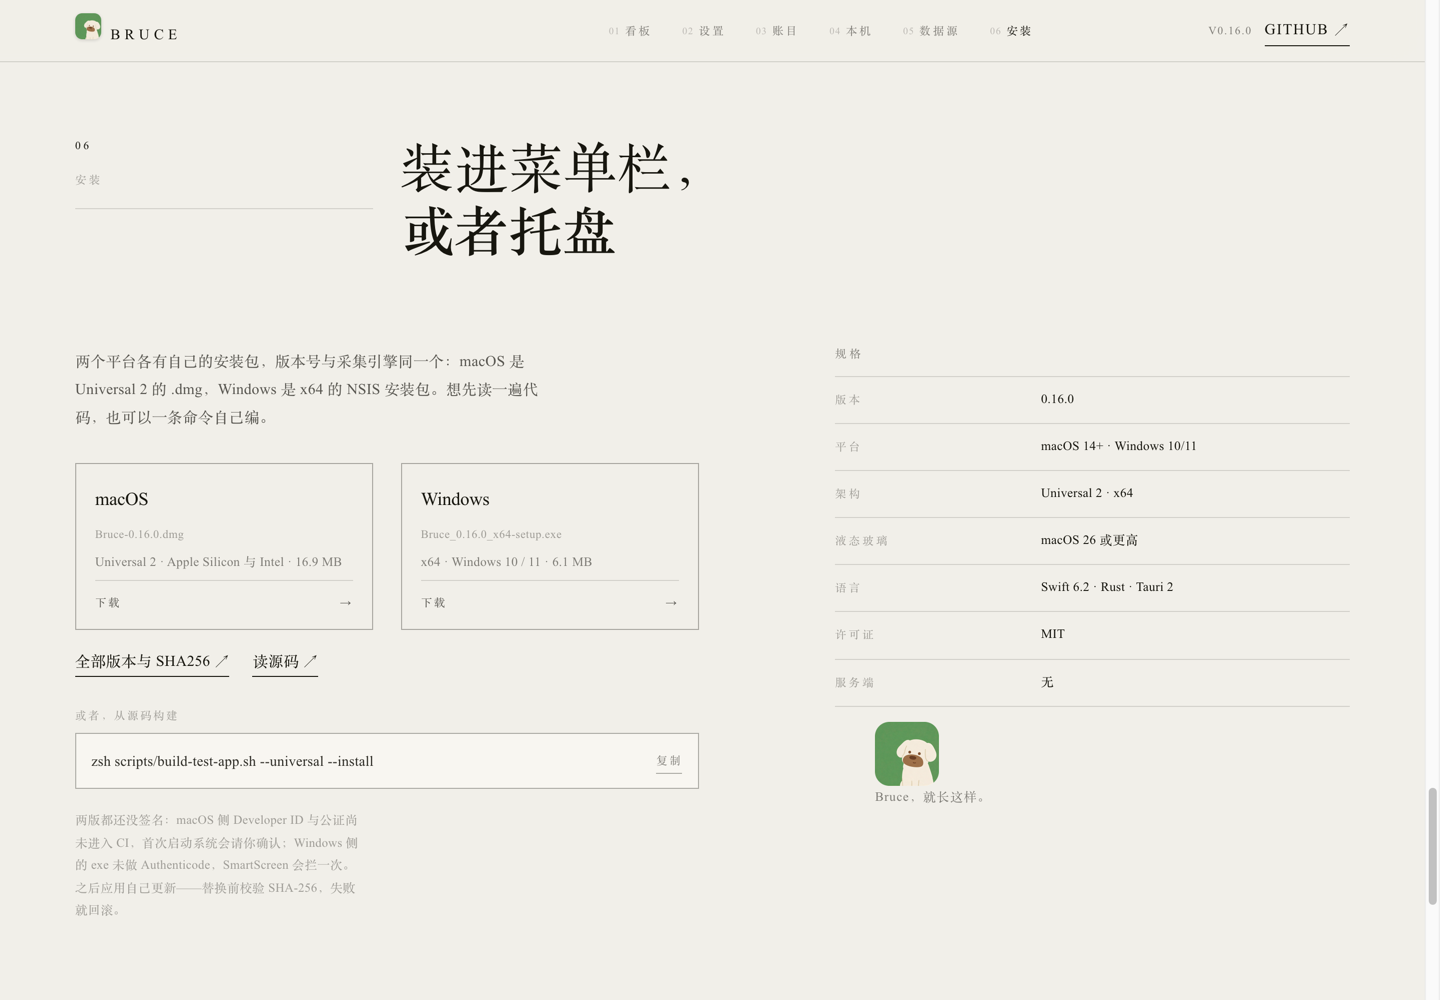
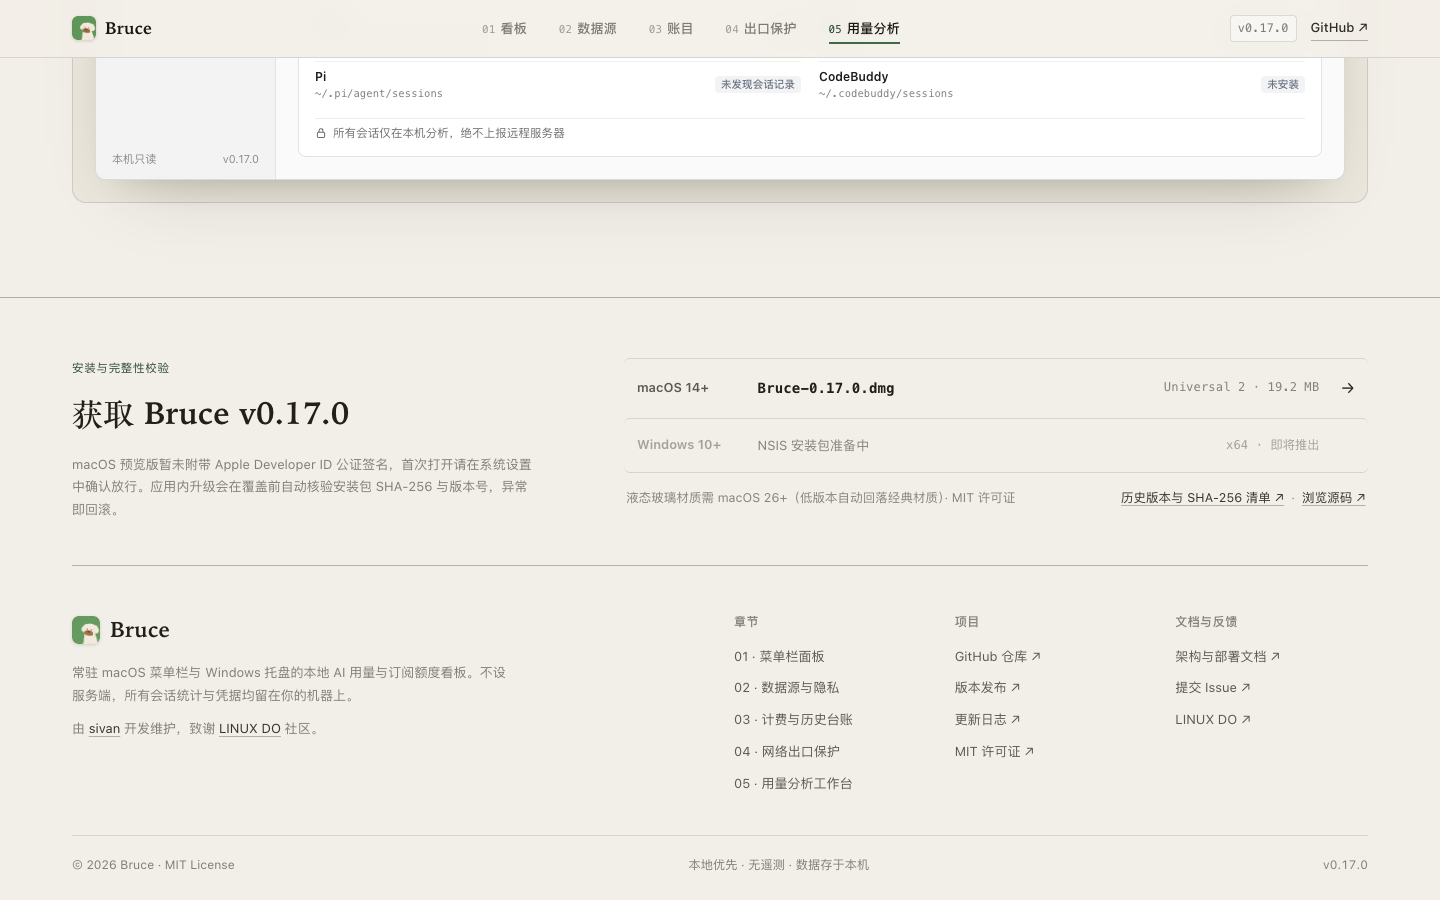
docs(website): 同步官方网站设计基线、实测截图与 CHANGELOG 记账 (C244)

diff --git a/docs/devel/design/13-官方网站.md b/docs/devel/design/13-官方网站.md
@@ -1,10 +1,10 @@
 # 官方网站设计方案
 
 <!-- @topic: OfficialWebsite -->
-> **created**: 2026-11-05 ｜ **last-change**: 2026-11-06 ｜ **status**: baseline
-> **文档ID**: DESIGN-WEBSITE ｜ **状态**: 现行基线（2026-11-06 批准首屏移动端适配基线变更）
-> **最后更新**: 2026-11-06 ｜ **所属总体**: [00-系统总体设计.md](00-系统总体设计.md) ｜ **对应 Topic**: `OfficialWebsite`
-> 📌 **变更总账**: 任务总账 [index.json](../task/index.json)（M15，T27；M17，T33）
+> **created**: 2026-11-05 ｜ **last-change**: 2026-11-18 ｜ **status**: baseline
+> **文档ID**: DESIGN-WEBSITE ｜ **状态**: 现行基线（2026-11-18 校准五章信息架构、首屏叠牌前置预览与去 AI 腔版式规范）
+> **最后更新**: 2026-11-18 ｜ **所属总体**: [00-系统总体设计.md](00-系统总体设计.md) ｜ **对应 Topic**: `OfficialWebsite`
+> 📌 **变更总账**: 任务总账 [index.json](../task/index.json)（M15，T27；M17，T33）｜ 变更总账 [index.json](../change/index.json)（C244）
 
 ---
 
@@ -35,10 +35,11 @@
 
 ### 3.1 定位与边界
 
-1. **单页交付**：一张长卷，六章（看板 / 设置 / 账目 / 本机 / 数据源 / 安装），不做多页路由、不做登录、不做埋点。
+1. **单页交付**：一张长卷，五章（01 看板 / 02 数据源 / 03 账目 / 04 出口保护 / 05 用量分析）加页脚下载与验证台账，不做多页路由、不做登录、不做埋点。
 2. **零依赖静态**：只用 `index.html` + CSS + 原生 JS，无构建框架、无 npm 依赖树；构建步骤只做占位符注入与产物收拢。
-3. **高保真是硬要求**：面板与设置窗口不是截图，是按 App 布局常量（`website/spec/panel-spec.md`、`system-spec.md` 逐条标注源码行号）在 HTML/CSS 里重建的可交互 DOM。
+3. **高保真是硬要求**：菜单栏 22pt 状态项、弹出面板、出口保护设置与用量分析工作台均不是截图，而是按 App 布局常量（`website/spec/panel-spec.md`、`system-spec.md` 逐条标注源码行号）在 HTML/CSS 里重建的 DOM。
 4. **不碰产品逻辑**：官网不读取真实用量、不携带凭据，所有数字为样例数据并在页面注明。
+5. **平实克制的工程表达**：拒绝对称排比金句、机翻隐喻、页面自指说明（如在页脚报出字体栈与色值）及营销浮夸辞藻；用具体的数据源路径、权限数字、计费规则与窗口口径说话。
 
 ### 3.2 为什么放在主仓而不是独立仓库
 
@@ -59,9 +60,9 @@
 ```
 website/                     # 站点源码（构建输入，不直接部署）
 ├── index.html
-├── css/                     # base / site / panel / settings 四层
-├── js/                      # data.js 样例数据、panel.js 看板、settings.js 设置窗口、site.js 页面行为
-├── assets/                  # 字体子集、App 图标、厂商图形副本（构建时随站点一起复制）
+├── css/                     # base / site / panel / settings 四层样式
+├── js/                      # data.js 样例数据、panel.js 看板与菜单栏状态项、egress.js 出口保护、analysis.js 分析工作台、settings.js 设置基线、site.js 页面行为、preview-fallback.js 预览兜底
+├── assets/                  # 字体子集、App 图标、Agent 与厂商图形副本（构建时随站点一起复制）
 ├── spec/                    # 面板与系统规格摘录（源码行号证据，不参与构建）
 └── tools/                   # shot.mjs 截图、responsive-check.mjs 多宽度断言（均不参与构建）
 local/dist/site/             # 构建产物（gitignored，部署来源）
@@ -91,29 +92,27 @@ local/dist/site/             # 构建产物（gitignored，部署来源）
 
 ### 3.6 信息架构与版式
 
-1. **首屏**：左侧巨字标题（每一枚 token / 每一个模型 / 都记在账上）＋双平台下载，右侧三种主题的面板牌堆；不带主题标尺与演示注脚。
-2. **一章一屏**：每章有编号、名称、细线与标题，正文按 12 列网格排布。
-3. **字体系统**：中文宋体（`Songti SC` / `STSong` / `Noto Serif CJK SC`），西文 Times New Roman；强调用字重而非斜体；中文一律不做大写转换。
-4. **色彩**：纸色 `#F1EFE9`、墨色 `#17160F`、墨绿 `#4D7A52`，正文灰阶取不透明度派生；Nothing 主题内部使用琥珀 `#c9a24a` 与自己的灰阶。
-5. **长卷节奏**：章节之间用留白与细线分隔，不用色块切分，保持「时装画册」气质；明确避开赛博朋克式的霓虹、扫描线与高饱和发光。
+1. **首屏**：左侧眉标含 22pt 原生菜单栏状态项微缩样张（单环配额轨 + 最多三项等宽实时指标）、巨字主标题、平实导语与双平台下载，右侧三种主题的面板牌堆与轻量主题切换引线。
+2. **章节标头与网格**：采用纸面台账顶线分栏（左侧章节号与名称、右侧工程规格短注），取代装饰性圆点眉标；正文按 12 列网格排布。
+3. **字体分工**：大标题、章节题与导语采用衬线栈（`Iowan Old Style` / `Palatino` / `Times New Roman` + `Songti SC` / `STSong` / `Noto Serif CJK SC`），保留纸质印品的呼吸感；密集技术条目、暗底说明、规格表与产品界面内部统一使用系统无衬线与等宽数字，保证小字号与深色背景下的清晰度。大小写混排专有名词（`macOS`、`Windows`、`Nothing`、`GitHub`）严禁施加宽字距，宽字距仅用于全大写缩写与章节编号。
+4. **色彩**：纸色 `#F1EFE9`、抬升纸面 `#F8F6F1`、墨色 `#17160F`、墨绿 `#3F6A45`，正文灰阶取不透明度派生；04 章出口保护采用深墨底盘形成长卷节奏对照；Nothing 主题内部使用琥珀 `#C9A24A` 与专属点阵色阶。
+5. **长卷节奏**：章节之间用留白、纸面冷暖层级与 1px 细线分隔，明确避开赛博朋克霓虹、渐变发光卡片墙与仪表盘装饰徽章堆砌。
 
 ### 3.7 三个主题与牌堆
 
-首屏牌堆由三块静态面板叠成：Nothing、液态玻璃、经典，自左向右层叠，横向步进 168、纵向步进 42，自然尺寸 776×818。牌堆按容器宽度用定宽占位容器 + `transform: scale()` 缩放，不使用非标准 `zoom`：`>1100px` 放在首屏标题右侧；`721–1100px` 整堆等比缩放、排在文案下方且三张全部保留；`≤720px` 改为三张纵向缩略叠放（当前卡展开，其余两张各留 48–56px 顶条，点顶条切换），并移到标题之后、导语之前。
+首屏牌堆由三块面板叠成：Nothing、液态玻璃、经典，自左向右层叠，横向步进 168、纵向步进 42，自然尺寸 776×818。牌堆按容器宽度用定宽占位容器 + `transform: scale()` 缩放，不使用非标准 `zoom`：`>1100px` 放在首屏标题右侧；`721–1100px` 整堆等比缩放、排在文案下方且三张全部保留；`≤720px` 改为三张纵向缩略叠放（当前卡展开，其余两张各留 48–56px 顶条，点顶条切换），并移到标题之后、导语之前。
 
-- **Nothing**：Doto 点阵数字（圆度 `ROND 0` 的方形点）、Space Mono、琥珀色氛围灯、24 段刻度条、点阵 Agent 图与琥珀热力图。
-- **液态玻璃**：半透明材质、模糊层与极光绿趋势线。
+- **Nothing**：Doto 点阵数字（圆度 `ROND 0` 的方形点）、Space Mono、琥珀色氛围灯、24 段刻度条、点阵 Agent 图与琥珀热力图（含匹配色阶图例）。
+- **液态玻璃**：高不透明度磨砂玻璃底板与镜面高光边（避免叠放时下层面板文字透印串行）及趋势线。
 - **经典**：纸面卡片、细线、绿色进度条。
 
-卡片映射固定为 Nothing → Token 用量、液态玻璃 → Agent 用量、经典 → 订阅用量；三张卡高度按内容自适应（实测约 734 / 699 / 701），牌堆高度取最高卡 + 两道纵向步进，保证横向叠放时后两张露出的是标题与大数字。
+卡片映射固定为 Nothing → Token 用量、液态玻璃 → Agent 用量、经典 → 订阅用量；三张卡高度按内容自适应，牌堆高度取最高卡 + 两道纵向步进。桌面叠放态默认经典置前，访客点击后排卡片或牌堆底部的主题引线即可将该主题按物理槽位顺滑发牌至前景完整检视，其余两张维持相对层级顺滑退居中后排；底部引线与 01 章左侧切换栏均配备滑动指示器。
 
-### 3.8 静态样张与交互边界
+### 3.8 样张与交互边界
 
-首屏面板是**静态样张**：面板内部的 tab、折叠、刷新、窗口切换全部为惰性 `span`，不绑定事件；设置窗口样张（第 02 章）保留交互（分类切换、开关、复制按钮），因为那一章要演示的是设置项本身。
+首屏面板内部控件（tab、折叠、刷新、窗口切换）全部为惰性 `span`，不触发应用级操作；仅允许通过点击叠放面板、底部主题引线或移动端顶条 `button` 切换前置展示的主题卡，避免后两张卡长期被遮挡裁切。
 
-移动端缩略叠放的顶条是唯一例外：它是原生 `button`，只负责把对应主题的卡切换到展开位，不触达卡内任何控件。
-
-这条边界写进页面文案而不是靠注释，避免访客把样张当产品功能试用。
+01 章看板配备联动的 22pt 菜单栏状态条与三卡双向过渡（含手风琴展开高度跟随与配额条舒展动效），04 章出口保护与 05 章用量分析采用持久化 DOM 骨架与原地更新机制，保留完整的页内交互演示（通道重测连续收起、卡片斜向换位、新建通道弹窗渐变显隐、五档时间范围 KPI 滚动插值、零重建时序十字准星、归并/原始渠道抽屉与导出预览），所有样例边界在文案中平实点明。
 
 ### 3.9 响应式与可访问性
 
@@ -124,8 +123,8 @@ local/dist/site/             # 构建产物（gitignored，部署来源）
    - `≤620px`：单列、下载卡纵排、首屏双 CTA 均分整行；`≤360px` 双 CTA 改为纵向整行，避免 320px 右缘裁切。
 2. 缩放与高度：牌堆与看板卡统一用定宽占位容器 + `transform: scale()`；高度由布局函数按面板实测高度计算，不写死；断点值只在 JS 常量与 CSS 媒体查询各出现一次并互相注释。
 3. 语义：`header/nav/main/section` 结构、章节 `aria-labelledby`、下载链接带 `aria-label`（含文件名与大小）、面板容器 `role="group"`；移动端顶条为原生 `button` 并带 `aria-pressed`。
-4. 触控：粗指针下放大卡内可点控件热区；热力图日期提示补点击显示、点空白关闭；首屏样张仍为静态，不因触控新增交互。
-5. 动效：进场位移淡入 + `IntersectionObserver` 单次揭示；牌堆切换 320ms 过渡；`prefers-reduced-motion: reduce` 全部关闭。
+4. 触控：粗指针下放大卡内可点控件热区；热力图日期提示补点击显示、滑动浮标连续跟随、点空白关闭；首屏样张仍为静态，不因触控新增交互。
+5. 动效：建立 `--ease-silk` / `--ease-morph` 连续缓动语义；首屏牌堆支持初始扇面入场与物理槽位发牌切换；01 章双向层叠切换与量条/曲线渐进绘制；03 章热力图对角线波纹与四项台账滚入；04/05 章采用 `grid-template-rows: 0fr↔1fr` 抽屉、滑块指示器与原地十字准星，避免整块 `innerHTML` 重建闪跳；`prefers-reduced-motion: reduce` 除数据流跑马灯外全部退化为即时态。
 6. 焦点：下载卡片、CTA、导航、牌堆顶条均为原生可聚焦元素，焦点态用墨色描边。
 
 ### 3.10 部署
@@ -212,6 +211,13 @@ Bruce 有 macOS 与 Windows 两版（Windows 为 Tauri 托盘应用，见 design
 原基线在 `≤1100px` 只保留经典一块，并把牌堆整块排到文案下方。实测 1100px 与 1101px 只差 1px，牌堆却从首屏右侧（y≈117）跳到文案下方（y≈910）：手机首屏与窄桌面窗口都看不到卡片，三卡展示形态也不存在。
 
 现改为三档：`>1100` 横向三卡、`721–1100` 保留三卡并整堆缩放、`≤720` 纵向缩略叠放且移到标题之后。缩放从 `zoom` 换成定宽占位容器 + `transform: scale()`：`zoom` 非标准，旧 Firefox/WebView 会失效并把 440px 卡塞进窄容器；且 `sizeDeck()` 与 `fit()` 同时写 inline 高度，窄→宽 resize 后牌堆会沿用 CSS 的固定 1004px，比实际内容多出约 186px 空白。高度此后一律由单一布局函数计算。
+
+### 6.8 视觉精修、去 AI 腔与连续动效编排（C244，2026-11-18）
+
+1. **叠牌透印与遮挡**：液态玻璃面板最初直接套用 `rgba(255,255,255,0.46)` 低不透明度底色，叠在 Nothing 卡片上方时，下层的 `586.6M` 点阵与热力图直接透印到 `Agent 用量` 文字背后导致重影；同时后排两卡不可前置，标题被长期半截遮挡。提高叠放态磨砂底板不透明度并允许点击后排卡或底部主题引线前置检视，彻底消除文字透印。
+2. **补齐菜单栏锚点与双源目录**：页面反复提及「22pt 单环配额弧」与「十个 Agent、十家订阅」，但原先既无菜单栏状态项实物，也只用 132px 超大无字图标跑马灯展示品牌。现按 `system-spec.md §1.3` 几何常数补齐首屏与 01 章联动的 22pt 菜单栏状态条，并在 02 章收敛图标尺寸、新增本机会话（10）与云端订阅（10）双栏名录。
+3. **版式与文案去 AI 味**：清理全站对称两段式金句标题、机翻隐喻（「还没有发生的日子」等）、页脚自报字体色值及 `.skip-link` 越界显露、Nothing 热力图图例色阶错配、宽字距拉散 `macOS` / `Nothing` 等混排拉丁词的问题；同时清理 `site.css` 多轮追加遗留的冗余覆盖规则，统一分析工作台与出口保护样张的原生克制质感。
+4. **连续过渡与持久化 DOM（消除切卡/手风琴/图表生硬闪跳）**：梳理原站点五处高频交互发现生硬感主要来自每次点击整块 `innerHTML` 重建与硬切 `z-index` / `[hidden]`——现统一引入 `--ease-silk` 与 `--ease-morph` 曲线：首屏叠牌改用物理 `slotOrder` 发牌位移与提升弧线；底部切换栏、01 章选项卡及 05 章分段器改用测量位移的浮动滑块指示器；01 章看板改为双向层叠进退场、菜单栏皮肤胶囊轻弹、量条/曲线渐进绘制及手风琴高度 RAF 跟踪；03 章增加热力图对角波纹、四项台账数字滚入及平滑跟随 Tooltip；04/05 章重构为持久化 DOM 骨架 + `grid-template-rows: 0fr↔1fr` 抽屉与弹窗缩放显隐，并实现 05 章时序十字准星原地高频跟随与 KPI 数值插值滚动。
 
 ## 7. 待定事项
 

diff --git a/CHANGELOG.md b/CHANGELOG.md
@@ -13,6 +13,11 @@
   - **验证**：新增 `website/tools/responsive-check.mjs`（本地工具、不入构建），Chromium + WebKit 在 320–1440 共 124 项断言；同步更新 `site-hero.png` / `site-mobile.png` 截图与 design/13 基线。
 
 ### Changed
+- **官方网站版式精修、去 AI 腔重构与连续动效编排 ([C244](docs/devel/change/C244.json))**：
+  - **视觉纠偏与 1:1 状态条补齐**：提高桌面叠放态液态玻璃磨砂底板不透明度并清除叠牌半透明系数，消除底层 Nothing 数字透印重影；允许桌面点击后排卡片或底部主题切换条物理发牌前置；移除 Nothing 热力图图例行内绿色，改为 CSS 与琥珀色阶联动；按 `system-spec.md §1.3` 补充首屏及 01 章联动的 22pt 菜单栏配额环与实时状态条；02 章补充「本机会话只读扫描（10）」与「云端订阅额度查询（10）」双栏明细。
+  - **去 AI 腔版式与样式表整理**：重写平实克制的工程事实文案与台账分栏章节头，清理对称口号、机翻隐喻、页脚自报纸色文字与装饰 Emoji；合并清理 `base.css` 与 `site.css` 历史冗余覆盖，修正混排拉丁字距与 `.skip-link` 越界显露。
+  - **连续动效与持久化骨架**：引入 `--ease-silk` 与 `--ease-morph` 曲线，将首屏叠牌改为 `slotOrder` 物理发牌与切换器滑动指示器，01 章升级为双向层叠切换、量条/曲线渐进绘制与手风琴高度 RAF 跟踪，03 章补齐热力图波纹、台账滚入与滑动浮标，04/05 章重构为持久化 DOM 骨架 + `0fr↔1fr` 抽屉、弹窗缩放显隐、KPI 滚动插值与 120fps 原地十字准星（全部遵循 `prefers-reduced-motion: reduce`）。
+  - **文档与测试**：同步更新 `docs/devel/design/13-官方网站.md`、`site-{hero,panel,install,mobile}.png` 四张截图，并新增 `tests/unit/u_website_contract.test.mjs`（`UT-website-001..004`）接入顶层单元测试。
 - **顶层 `tests/unit` 契约测试接入本地门禁 ([C242](docs/devel/change/C242.json))**：`verify-local.sh` 新增 `node --test tests/unit/*.test.mjs`（22 项 artifact / 定价 / provider 品牌 / 额度策略契约，此前门禁与 CI 均未运行），运行前自检 `tests/unit` 下没有未被通配命中的测试文件；`tests/benchmark/` 定位为手动基准、不进门禁，产物由 `tests/tmp/` 改写到 `local/bench/`；设计 00 §3.4、AGENTS.md 命令表与 `tests/docs/README.md` 同步。
 - **Token 用量卡收起态改用方案 A4 摘要（双端）([C235](docs/devel/change/C235.json))**：
   - **收起态右侧重排**：移除近 7 天迷你热力条（`collapsedWeekLevels` / `.mini-week`），保留左侧 17pt 今日总 Token；右侧主行显示「命中 XX% | ≈ ¥XX.XX」（缺值展示暗淡 `—`），次行以 `·` 分隔展示「较昨日 ↑N%/↓N%/持平 · 省 ¥XX.XX · 本月 XXX」，无数据子项自动省略，全空时整行隐藏；
